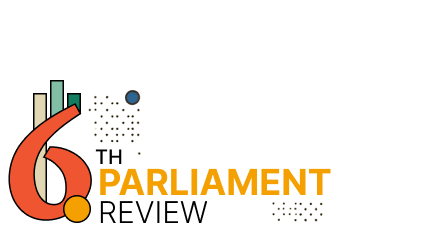
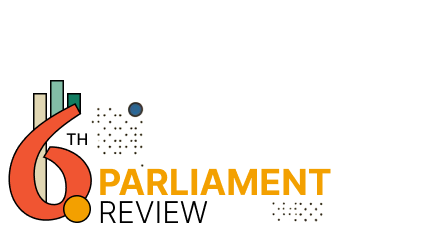
design tweaks

Changed region(s): [[0.1544, 0.3611, 0.3397, 0.6389]]

diff --git a/pmg/templates/pr6/articles/judith-february.html b/pmg/templates/pr6/articles/judith-february.html
@@ -20,6 +20,10 @@
 
     <p>Reflecting on oversight and accountability, broadly speaking, Parliament’s performance has been mediocre and unfortunately marred by inconsistencies. The release of the report by the Judicial Commission of Inquiry into Allegations of State Capture, Corruption and Fraud in the Public Sector including Organs of State (the Report) in June 2022 outlined in detail how the ANC defanged Parliament between 2009 and 2018, facilitating rampant corruption and the wholesale capture of the South African state by politically connected individuals. Indeed, the Report concluded that weaknesses in parliamentary oversight and executive accountability had contributed to corruption and maladministration and <a href="https://www.stateofthenation.gov.za/zondo-commission-reports/Part%206%20Vol%204%20-%20Judicial%20Commission%20of%20Inquiry%20into%20State%20Capture%20Report.pdf" target="_blank">recommended</a> that Parliament consider reforms to improve its oversight and accountability function. In October of that year, the Presidency submitted a <a href="https://www.stateofthenation.gov.za/assets/downloads/State%20Capture%20Commission%20Response.pdf" target="_blank">report</a> to Parliament on the implementation of the Commission’s recommendations. Despite adopting its own thirty-one-page implementation <a href="https://www.parliament.gov.za/storage/app/media/Docs/atc/4a755e82-cfd5-4ffd-b0f2-a633facc36c3.pdf" target="_blank">report</a> in response, Parliament’s performance in acting on the Commission’s recommendations has been inconsistent at best, with many MPs apparently viewing the process as a tick-box exercise requiring little real engagement.  In some instances, Parliament outright rejected the Report’s recommendations for apparently trivial reasons. Faced with this clear opportunity to hold the errant executive to account, many parliamentarians chose to avoid political discomfort by simply acceding to party pressure.  In many ways, the Report, and its implementation, was a defining feature of the Sixth Parliament. </p>
 
+    <blockquote>
+        The National Assembly expressed a similarly supine attitude towards executive accountability in its response to several high-profile corruption scandals this term. 
+    </blockquote>
+
     <p>The National Assembly expressed a similarly supine attitude towards executive accountability in its response to several high-profile corruption scandals this term. For example, its decision to reject an independent panel’s report on the <a href="https://www.corruptionwatch.org.za/misappropriation-of-resources-misuse-of-power-phala-phalas-best-outcome/" target="_blank">Phala Phala</a> matter has been widely criticised and viewed as an abject failure. Similarly, its handling of the <a href="https://amabhungane.org/wp-content/uploads/2021/07/210712_Karpower-slide_desktop.pdf" target="_blank">Karpowership</a> controversy has done little to foster confidence in Parliament’s ability or appetite to rein in executive excess. Indeed, Parliament’s abdication of this constitutional function is perhaps best illustrated by the fact that some ministers, despite having been heavily implicated in state capture by the Report, have nevertheless been promoted to powerful positions at the head of various parliamentary portfolio committees. Rather than hold errant officials to account, the Sixth Parliament preferred to reward their unethical behaviour.</p>
 
     <p>There were, however, positive moments of robust accountability during the Sixth Parliament. On 21 February 2024, and in an unprecedented move in South Africa’s democratic history, Parliament voted to remove Western Cape Judge President John Hlophe, and retired Judge Nkola Motata, from office in terms of section 177(3) of the Constitution. The Judicial Service Commission (JSC) found Hlophe guilty of gross misconduct following his attempt to improperly influence the outcome of a matter before the Constitutional Court involving then-President Jacob Zuma. Judge Hlophe’s improper conduct dated back to 2008, meaning it took more than fifteen years for the JSC and Parliament to hold Judge Hlophe fully to account. Similarly, the complaint against Judge Motata dated back to 2007, and arose from his conduct surrounding his conviction for drunk driving earlier that year. While these matters took far too long to reach their conclusion, Parliament’s decision nevertheless represents an important step in maintaining the efficacy and legitimacy of the judiciary.</p>
@@ -31,13 +35,18 @@
     <p>This term also saw an end to the familiar disruption of parliamentary processes (and consequent violence) by members of the EFF. Following their disruptive conduct at the 2023 State of the Nation Address (SONA) the Speaker of the National Assembly ordered six EFF members to leave the Chamber. Instead of leaving, the members crossed the floor and jumped on the stage at the Cape Town City Hall where President Cyril Ramaphosa was to deliver the address. The Speaker then suspended proceedings and called on the parliamentary security services to remove the members. The Speaker referred the matter to the Powers and Privileges Committee, which in turn found the members to be in contempt of Parliament and recommended sanctions against them, including a one-month suspension effective from 1 February 2024. The implicated members’ challenge to this decision in the Western Cape High Court was dismissed in a <a href="https://www.parliament.gov.za/press-releases/western-cape-high-court-dismisses-eff-application-prevent-parliament-applying-joint-rules" target="_blank">scathing judgment</a>.</p>
 
     <p>A concerning absence of transparency was, however, highlighted by Parliament’s move to virtual meetings following the advent of the Covid-19 pandemic in early 2020. While virtual meetings initially provided an uptick in transparency and public participation – with members of the public being able to observe and comment on parliamentary meetings as they unfolded – it quickly became clear that not all meetings were being made available in this way. In fact, only 67% of meetings were either live-streamed or otherwise made available online. Given that Parliament has been physically inaccessible since January 2022 (as a result of the fire described below), this means that roughly one-third of parliamentary meetings have effectively been taking place in secret.</p>
-
+    <blockquote class="right">
+        In April 2021, following the constitutional challenge to the Promotion of Access to Information Act by civil society group My Vote Counts, Parliament passed the Political Party Funding Act to regulate the manner in which political parties are funded.
+    </blockquote>
     <p>On another front, the Sixth Parliament flexed its legislative muscles this term by passing a number of significant pieces of legislation. In April 2021, following the constitutional challenge to the Promotion of Access to Information Act by civil society group My Vote Counts, Parliament passed the Political Party Funding Act to regulate the manner in which political parties are funded. The Act, which is the first of its kind in South Africa, aims to ensure that parties are transparent in how they receive and report the funds that are donated to them. The Act has the potential to fundamentally improve and deepen the way in which South African citizens exercise their political rights and represents a huge step towards creating an informed and empowered electorate.</p>
 
     <p>Similarly, in May 2023, and for the first time since 2012, Parliament amended the Constitution by passing the Sign Language Bill. The bill sought to afford people who are deaf or hearing impaired equal protection before the law. The unanimous adoption of this constitutional amendment brought to 12 the number of official languages in South Africa.</p>
 
     <p>The Electoral Amendment Bill, which will allow independent candidates to stand in the 2024 provincial and national elections, was passed by Parliament on 22 February 2023. The Bill was immediately subjected to a constitutional challenge in which the participation threshold for independent candidates (obtaining signatures equivalent to 15% of the votes required to win a seat in a particular region) was struck out, with Parliament being afforded twenty-four months to remedy the defect. The Constitutional Court’s <a href="https://www.saflii.org/za/cases/ZACC/2023/42.html" target="_blank">decision</a> was limited to the facts before it, and therefore does not affect the participation threshold of new unrepresented parties (who are still required to obtain the 15% quota). Despite its deficiencies, the Act is a promising step towards a more inclusive and competitive representative democracy.</p>
 
+    <blockquote>
+        A further feature of the Sixth’s Parliament legislative agenda has been the increasing securitisation of the state. 
+    </blockquote>
     <p>A further feature of the Sixth’s Parliament legislative agenda has been the increasing securitisation of the state. The General Intelligence Laws Amendment Bill 2023 is the latest act in an onslaught began during the Zuma era. On track to be passed into law before the end of the term, the Bill has widely been described as malicious and inadequate. Many of its provisions are vague, and ambiguous and allow the intrusion of state security agencies into society in a way that undermines democracy and lays the groundwork for a return to state capture. One of the Bill’s primary aims is to remove all restrictions on state security agencies’ ability to spy on people and organisations engaged in political advocacy. It does so by (i) unreasonably expanding the notion of national security, (ii) increasing state security agencies’ powers to conduct security vetting and (iii) expanding state security agencies’ powers of mass surveillance. The fact that it was rushed through Parliament towards the end of 2023, with little to no opposition, is deeply concerning.</p>
 
     <p>Perhaps the lowest point of the Sixth Parliament occurred on the morning of 2 January 2022. Just after 5:00 am, the City of Cape Town’s Fire and Rescue services were notified of a fire at the Parliamentary complex. The fire started on the third floor of the National Council of Provinces building and spread via the offices and gymnasium to the National Assembly building which was severely damaged. Crucially, the fire was able to spread in the way that it did due to a lack of proper maintenance and a failure to ensure compliance with building codes and fire prevention basics. Indeed, Parliament’s investigation into the fire revealed “pervasive non-compliance with fire regulations and requirements across multiple facets, including smoke detectors, fire alarm panels, emergency notification systems, sprinkler systems and evacuation route planning.” It has subsequently come to light that the fire was started by Zandile Mafe, who was able to make his way into the precinct following “lapses in perimeter monitoring” occasioned by Parliamentary Protection Services “not working nights or weekends” and the police officer on duty having “fallen asleep” at his desk. Parliament’s reconstruction, now finally underway, should be completed by late 2025, at a cost of R2 billion. As a result of the damage to the National Assembly building, several key sittings of Parliament, including the State of the Nation Address, have been held at the Cape Town City Hall. It was a distinctly saddening moment and perhaps a leitmotif of the faltering nature of our democracy itself.</p>

diff --git a/pmg/templates/pr6/landing.html b/pmg/templates/pr6/landing.html
@@ -62,6 +62,7 @@
                                 <div class="article-meta">By PMG</div>
                                 <div class="article-intro">South African Parliament's sixth term saw historical milestones, controversies, and calls for reforms to restore public trust in the legislature.</div>
                             </a>
+                            <img src="/static/resources/images/pr6/dots1.png" class="article-dots"/>
                         </article>
                     </div>
 
@@ -75,6 +76,7 @@
                                     representation system of government at the national and provincial levels in South
                                     Africa, as was used in the inaugural democratic elections in 1994.</div>
                             </a>
+                            <img src="/static/resources/images/pr6/dots1.png" class="article-dots"/>
                         </article>
                     </div>
 
@@ -87,6 +89,7 @@
                                 <div class="article-intro">South Africa's Sixth Parliament had accountability highs and
                                     lows, failing at effective oversight.</div>
                             </a>
+                            <img src="/static/resources/images/pr6/dots1.png" class="article-dots"/>
                         </article>
                     </div>
 
@@ -100,6 +103,7 @@
                                     executive accountable through oversight mechanisms, as recommended by the Corder
                                     Report and Zondo Commission.</div>
                             </a>
+                            <img src="/static/resources/images/pr6/dots1.png" class="article-dots"/>
                         </article>
                     </div>
 
@@ -113,6 +117,7 @@
                                     public participation, fiscal framework ambiguity, capacity constraints, and
                                     constitutional obligations.</div>
                             </a>
+                            <img src="/static/resources/images/pr6/dots1.png" class="article-dots"/>
                         </article>
                     </div>
 
@@ -125,6 +130,7 @@
                                 <div class="article-intro">Parliamentary autonomy critical for effective oversight,
                                     facing challenges in South Africa.</div>
                             </a>
+                            <img src="/static/resources/images/pr6/dots1.png" class="article-dots"/>
                         </article>
                     </div>
 
@@ -139,6 +145,7 @@
                                     recommendations to strengthen ethical governance through a values-based approach.
                                 </div>
                             </a>
+                            <img src="/static/resources/images/pr6/dots1.png" class="article-dots"/>
                         </article>
                     </div>
 
@@ -151,6 +158,7 @@
                                 <div class="article-intro">Parliamentary committee system reforms needed to improve
                                     oversight, accountability after state capture revelations.</div>
                             </a>
+                            <img src="/static/resources/images/pr6/dots1.png" class="article-dots"/>
                         </article>
                     </div>
 
@@ -164,6 +172,7 @@
                                 <div class="article-intro">Enhancing parliamentary oversight: Lessons from the Sixth
                                     Parliament for strengthening accountability.</div>
                             </a>
+                            <img src="/static/resources/images/pr6/dots1.png" class="article-dots"/>
                         </article>
                     </div>
 
@@ -177,6 +186,7 @@
                                     upload committee meetings, ensuring public access to proceedings and documents.
                                 </div>
                             </a>
+                            <img src="/static/resources/images/pr6/dots1.png" class="article-dots"/>
                         </article>
                     </div>
 
@@ -189,6 +199,7 @@
                                 <div class="article-intro">South African Parliament revises rules, frameworks to enhance public engagement, ethical conduct, oversight mechanisms for the upcoming 7th Parliament term.
                                 </div>
                             </a>
+                            <img src="/static/resources/images/pr6/dots1.png" class="article-dots"/>
                         </article>
                     </div>
 
@@ -200,6 +211,7 @@
                                 <div class="article-meta">By PMG</div>
                                 <div class="article-intro">Parliament's progress on implementing recommendations from the State Capture Commission on oversight reform.</div>
                             </a>
+                            <img src="/static/resources/images/pr6/dots1.png" class="article-dots"/>
                         </article>
                     </div>
 
@@ -383,6 +395,7 @@
                                 <h3>Written Questions</h3>
                                 <div class="article-intro"><strong>A breakdown of questions and responses</strong></div>
                             </a>
+                            <img src="/static/resources/images/pr6/dots1.png" class="article-dots"/>
                         </article>
                     </div>
 
@@ -392,6 +405,7 @@
                                 <h3>Plenary Sessions</h3>
                                 <div class="article-intro"><strong>Plenary session activities</strong></div>
                             </a>
+                            <img src="/static/resources/images/pr6/dots1.png" class="article-dots"/>
                         </article>
                     </div>
 
@@ -401,6 +415,7 @@
                                 <h3>MP Turnover</h3>
                                 <div class="article-intro"><strong>Turnover of members of parliament</strong></div>
                             </a>
+                            <img src="/static/resources/images/pr6/dots1.png" class="article-dots"/>
                         </article>
                     </div>
 
@@ -410,6 +425,7 @@
                                 <h3>Committee Activities</h3>
                                 <div class="article-intro"><strong>Key areas of committee activities</strong></div>
                             </a>
+                            <img src="/static/resources/images/pr6/dots1.png" class="article-dots"/>
                         </article>
                     </div>
 
@@ -419,6 +435,7 @@
                                 <h3>Legislation</h3>
                                 <div class="article-intro"><strong>Bills of the 6th parliament</strong></div>
                             </a>
+                            <img src="/static/resources/images/pr6/dots1.png" class="article-dots"/>
                         </article>
                     </div>
 
@@ -428,6 +445,7 @@
                                 <h3>Attendance</h3>
                                 <div class="article-intro"><strong>Committee attendance</strong></div>
                             </a>
+                            <img src="/static/resources/images/pr6/dots1.png" class="article-dots"/>
                         </article>
                     </div>
 

diff --git a/pmg/templates/pr6/articles/overview.html b/pmg/templates/pr6/articles/overview.html
@@ -26,6 +26,10 @@
         performance. Notwithstanding this reality, there is an established view that the legislature is weak and does
         not do much.</p>
 
+        <blockquote>
+            The Sixth Parliament has been unprecedented, historical, and foundational. It’s also been a mixed bag with moments of progress, turbulence, controversy, and setbacks.
+        </blockquote>
+
     <p>This perception is not misplaced because there is more to the legislature than its daily activities. The
         legislature exists as our representative, advocate and watchdog. The marker for the effectiveness of Parliament
         lies beyond targets, but in intangible, unquantifiable impacts and demonstrable change.</p>
@@ -80,7 +84,11 @@
         Section 194 Enquiry’s recommendation that Adv Mkhwebane be removed from office. The matter was first raised in
         September 2019, and the National Assembly developed rules to allow for a Section 194 inquiry. Rightly so, the
         process was gruelling but ultimately proved legitimate and instructive for similar processes in the future.</p>
-    <p>Another noteworthy milestone was the passing of the Constitution 18th Amendment Bill, which amended the
+    <blockquote class="right">
+        Another noteworthy milestone was the passing of the Constitution 18th Amendment Bill, which amended the Constitution to make South African sign language the 12th official language.
+    </blockquote>
+    
+        <p>Another noteworthy milestone was the passing of the Constitution 18th Amendment Bill, which amended the
         Constitution to make South African sign language the 12th official language. In addition, it’s been a term where
         significant legislation was processed. Some, like the National Health Insurance (NHI) Bill, Climate Change Bill
         and Expropriation Bill, succeeded (it’s yet to be seen if these will be challenged); others, like the Basic
@@ -100,6 +108,11 @@
         other hand, the former Speaker saw the legislature as the proverbial Phoenix rising from the ashes of the <a
             href="https://pmg.org.za/briefing/35157/" target="_blank">fire</a>.
     </p>
+
+    <div class="article-image article-image-full">
+        <img src="/static/resources/images/pr6/gallery/fire2.png" />
+    </div>
+
     <p>This had a ripple effect, stalling Parliament’s plan to return to in-person sittings and meetings post-COVID-19.
         It meant that going forward, big plenary events such as the State of the Nation Address and Budget Speech had to
         take place outside the parliamentary precinct—the Cape Town City Hall.</p>
@@ -154,6 +167,9 @@
         that allows parliaments to get a holistic view of the legislation's operation and impact, understand what worked
         well and what did not, and identify the best way forward in ensuring that legislation has the intended impact.
     </p>
+    <blockquote>
+        A large part of the legacy of the Sixth Parliament will be how it dealt with the Zondo Commission’s recommendations...so that, hopefully, the institution will not again be found wanting in the face of another state capture
+    </blockquote>
     <p>A large part of the legacy of the Sixth Parliament will be how it dealt with the Zondo Commission’s
         recommendations. These recommendations were made with the intention of bringing about necessary institutional
         reform of Parliament so that, hopefully, the institution will not again be found wanting in the face of another

diff --git a/pmg/templates/pr6/articles/kevin-deveaux.html b/pmg/templates/pr6/articles/kevin-deveaux.html
@@ -60,6 +60,11 @@
 
     <p>In <strong>Sri Lanka</strong>, the Parliament consists of a unicameral legislature, comprised of elected representatives from across the country. The Constitution of Sri Lanka provides a legal framework for parliamentary autonomy, delineating the powers and functions of the legislative branch. It grants the Secretary General of the Parliament the status of a constitutional officer and grants the post the autonomy to hire and manage staff.<sup data-fn="7">7</sup></p>
 
+    <div class="article-image">
+        <img src="/static/resources/images/pr6/sri-lanka-parliament.jpeg" />
+        <div class="image-caption">Sri Lanka Parliament</div>
+    </div>
+
     <p>The brief constitutional provisions have been further entrenched through the <em>Parliamentary Staffs Act</em>.<sup data-fn="8">8</sup> That Act is also brief, but has been the foundation for the autonomy of the Parliament and its administration, including the autonomy of the Secretary-General to manage staff. Through this legal framework, the Parliament has been able to maintain de jure and de facto administrative autonomy. This has allowed the institution to maintain a cadre of specialised administrative support for MPs, committees and the Parliament, which is important for preserving and maintaining institutional memory and professional expertise.</p>
 
     <h3>4. Financial Autonomy</h3>
@@ -73,6 +78,11 @@
     <p>There have been recent efforts to create greater autonomy for the Parliament (and provincial legislatures). The South African Legislative Sector (SALS)<sup data-fn="10">10</sup> has worked in recent years to develop a national law that would establish a formal sectoral approach to the work of the nine provincial legislatures and the national parliament. In addition, this legislation would establish greater financial autonomy for the sector. Despite not having such a legal framework in place, SALS has also promoted inter-parliamentary engagement to allow for the sharing of best practices that have enabled some space for the legislatures and Parliament to expand their capacity to manage staff and build their institutional capacity. But these initiatives have been limited by a lack of resources that could be addressed, at least in theory, by greater parliamentary financial autonomy.</p>
 
     <p>In <strong>Malaysia</strong>, the Parliament is overseen by a Chief Administrator, responsible for the administrative and financial matters of Parliament, who is selected from the Public Service. Additionally, there are two Secretaries of the Parliament: the Clerk of the Senate and the Clerk of the House of Representatives, both appointed by His Majesty the King of Malaysia as per the Constitution.</p>
+
+    <div class="article-image">
+        <img src="/static/resources/images/pr6/malaysia-houses-of-parliament.jpg" />
+        <div class="image-caption">Malaysia Parliament</div>
+    </div>
 
     <p>With the Chief Administrator being appointed and reporting to the executive, this means, for financial matters, the Parliament has almost no autonomy over how it spends the funds allocated to the institution through the annual state budget.</p>
 

diff --git a/pmg/templates/pr6/articles/devi-pillay.html b/pmg/templates/pr6/articles/devi-pillay.html
@@ -91,6 +91,9 @@
     <p>What explains these weaknesses? We have found four main reasons for the ineffectiveness of committee oversight.
     </p>
 
+    <blockquote>
+        The political environment disincentivises close scrutiny of the Executive – even though they have strong oversight powers.
+    </blockquote>
     <p>Firstly, the political environment disincentivises close scrutiny of the Executive – even though they have strong
         oversight powers, MPs tend not to use them. MPs of the majority party must exercise oversight over senior
         members of their own party who occupy positions in the Executive – the same members who determine the
@@ -101,6 +104,9 @@
         interventions. It was clear from all of our interviews – and all of the testimonies at the Zondo Commission –
         that this political environment is the main obstacle to effective oversight.</p>
 
+    <blockquote class="right">
+        ...most committees work in ways that are generally ineffective and even sometimes counter-productive.
+    </blockquote>
     <p>Secondly, we found that most committees work in ways that are generally ineffective and even sometimes
         counter-productive. They allow the Executive to present lengthy reports, taking up most or all of the time
         allocated to oversight. When MPs are afforded the opportunity to ask questions, this is conducted in an
@@ -108,7 +114,9 @@
         protocol and formality which often derails meetings on substantive matters. Committees also tend to focus on
         financial and operational matters, to the exclusion of addressing larger questions of executive performance,
         meaningful impact, and the overall accountability chain in government.</p>
-
+    <blockquote>
+        Oversight is under-resourced.
+    </blockquote>   
     <p>Thirdly, oversight is under-resourced. This is true in terms of the money allocated to oversight functions, which
         is insufficient, and the way funds are allocated or prioritised is often problematic. Committees also do not
         have enough time for oversight activities over the wide range of institutions they oversee. Technical support is
@@ -116,6 +124,9 @@
         financial experts are indispensable in supporting oversight activities, but the research units are
         under-capacitated and unable to meet the growing demand for their services due to lack of resources.</p>
 
+    <blockquote class="right">
+        ...many MPs do not have either the necessary capabilities or the commitment required to effectively fulfil their oversight duties.
+    </blockquote>
     <p>Fourthly, many MPs do not have either the necessary capabilities or the commitment required to effectively fulfil
         their oversight duties. Parliament can only ever be as effective as its members. MPs need to be knowledgeable of
         the work of the departments they oversee, government processes, and the broader socio-economic context so that

diff --git a/pmg/templates/pr6/articles/ben-cronin.html b/pmg/templates/pr6/articles/ben-cronin.html
@@ -59,6 +59,10 @@
         time periods made available (particularly for appropriations and division of revenue bills) and by the limited
         capacity available to parliamentarians (see Part III below).</p>
 
+    <blockquote class="full">
+        On a more positive note, there is an increased opportunity to make online submissions, which mitigates the potential of regional exclusion for in-person oral submissions.
+    </blockquote>
+
     <p>In addition to the persisting challenges, the Sixth Parliament also faced a number of unprecedented hurdles in
         performing its task of facilitating public participation. In this regard, the significant impacts of Covid-19
         shutdowns and the fire that burned down Parliament’s main building, should be noted. On a more positive note,

diff --git a/pmg/static/resources/css/pr6.css b/pmg/static/resources/css/pr6.css
@@ -80,6 +80,14 @@
     height: 100%;
     margin-bottom: 1em;
     transition: all 0.5s;
+    position: relative;
+}
+
+.pr6-articles article .article-dots, .pr6-statistics article .article-dots {
+  position: absolute;
+  width: 15%;
+  bottom: 5px;
+  right: 5px;
 }
 
 .pr6-articles article a {
